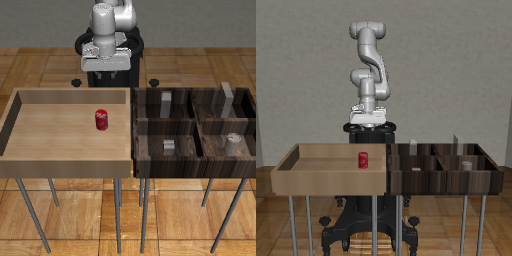
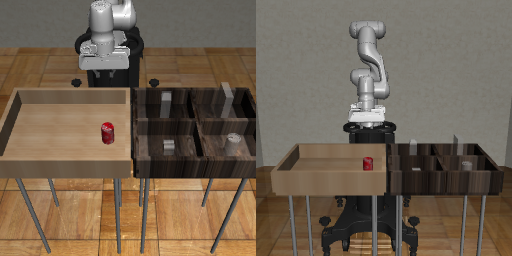
updated readme

diff --git a/robosuite/utils/ycb_textured_renderer.py b/robosuite/utils/ycb_textured_renderer.py
@@ -163,9 +163,9 @@ class TexturedRenderer:
         # Moving just that geom to group 1 restores the floor without also
         # showing collision geoms. Disabled for now to keep existing Lift YCB
         # eval images unchanged; uncomment to match mujoco_py's look.
-        # for gid in range(self.model.ngeom):
-        #     if mj.mj_id2name(self.model, mj.mjtObj.mjOBJ_GEOM, gid) == "floor":
-        #         self.model.geom_group[gid] = 1
+        for gid in range(self.model.ngeom):
+            if mj.mj_id2name(self.model, mj.mjtObj.mjOBJ_GEOM, gid) == "floor":
+                self.model.geom_group[gid] = 1
 
         # Sanity: state vectors must align so qpos copy is valid.
         assert self.model.nq == env.sim.model.nq, (

diff --git a/README.md b/README.md
@@ -24,3 +24,33 @@ env = suite.make("Lift", robots="Panda", object_type="bottle")      # bottle | c
 
 print(YCB_OBJECTS)  # YCB ids that load cleanly
 ```
+
+## Choosing the object in PickPlaceCan
+
+`object_type` takes anything Lift's does and swaps it in for the can:
+
+```python
+import robosuite as suite
+
+env = suite.make("PickPlaceCan", robots="Panda")                            # default can
+env = suite.make("PickPlaceCan", robots="Panda", object_type="011_banana")  # YCB id (or "ycb:011_banana")
+env = suite.make("PickPlaceCan", robots="Panda", object_type="lemon")       # primitive or XML object
+```
+
+- The new object keeps the can's name (`Can`). Its observations (`Can_pos`, `Can_quat`, ...), target bin and success check are therefore the can's, and Can-trained policies run without changes.
+- A YCB object's target marker is a see-through gray copy of the object. Other objects keep the can marker.
+- Only the active object is placed in bin 1. This lets large objects such as `003_cracker_box` and `029_plate` fit. Milk, bread and cereal are still moved out of the scene on reset.
+- `PickPlaceMilk`, `PickPlaceBread` and `PickPlaceCereal` accept `object_type` the same way and use that object's bin. On the base `PickPlace` env the argument is `object_model`, and it requires `single_object_mode=2`.
+
+<img src="renders/pick_place_ycb/all_objects.png" width="400" alt="PickPlaceCan with the default can and six YCB objects, agentview and frontview">
+
+Regenerate the renders and run the checks with:
+
+```bash
+MUJOCO_GL=egl python tests/ycb/render_pick_place.py --objects 011_banana 025_mug   # -> renders/pick_place_ycb/
+MUJOCO_GL=egl python tests/ycb/test_pick_place_ycb.py
+```
+
+## Camera images with YCB objects
+
+mujoco_py draws YCB objects with their untextured meshes. When a YCB object is in the scene and `use_camera_obs=True`, Lift and PickPlace therefore render camera frames with the modern `mujoco` bindings and YCB's textured meshes (`robosuite/utils/ycb_textured_renderer.py`), while physics stays on mujoco_py. 
